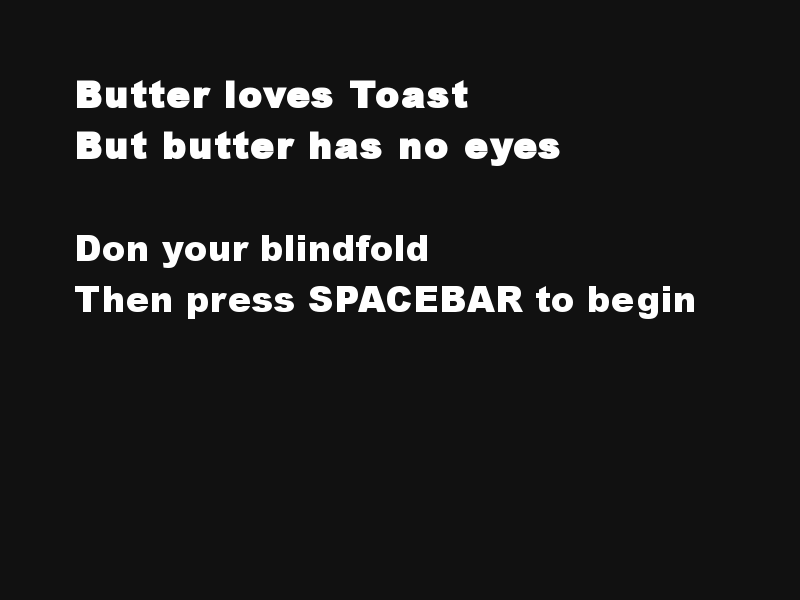
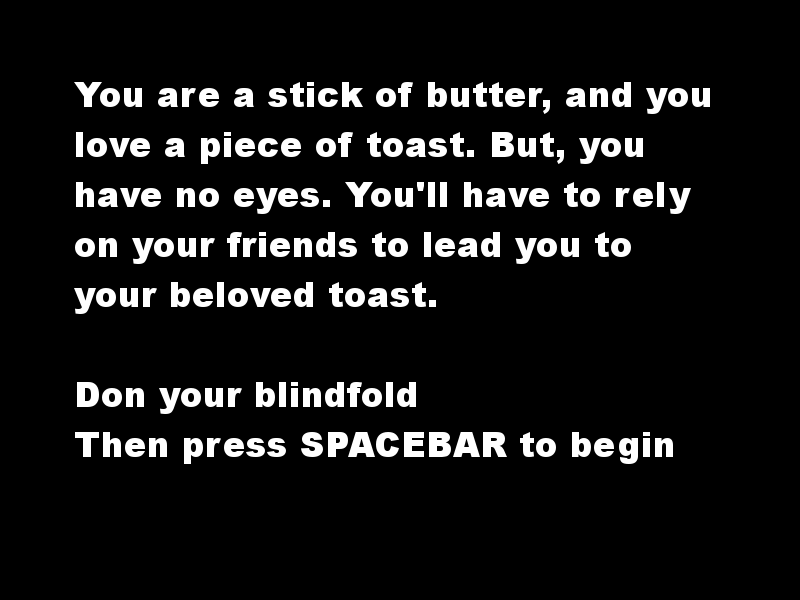
Added game description to webpage

diff --git a/digital-2.html b/digital-2.html
@@ -1,72 +1,104 @@
 <!DOCTYPE html>
 <html>
-<head>
+  <head>
     <meta charset="utf-8">
     <title>Digital #2</title>
     <script src="js/phaser.min.js"></script>
     <script src="js/love-game.js"></script>
     <script src="js/love-boot.js"></script>
     <script src="js/love-menu.js"></script>
-<style>
-body
-{
-    color: #777;
-    font-family: "Avenir", Verdana, sans-serif;
-}
-#readme
-{
-    margin-top: 10px;
-}
-</style>
+    <style>
+      body
+      {
+      color: #777;
+      font-family: "Avenir", Verdana, sans-serif;
+      }
+      #readme
+      {
+      margin-top: 10px;
+      }
+    </style>
 
-</head>
-<body>
-<div id="game"></div>
-<div id="readme">
-<h2>Love is Over</h2>
-<ul>
+  </head>
+  <body>
+    <div id="game"></div>
+    <div id="readme">
+      <h2>Love is Blind + Butter</h2>
+      <ul>
 
-<li><strong>High Concept:</strong>
-</li>
+	<li><strong>High Concept:</strong> One player seeks the piece
+	  of toast while blindfolded, the other players try to help
+	  them find it.
+	</li>
 
-<li><strong>Player Experience Goals:</strong>
-</li>
+	<li><strong>Player Experience Goals:</strong> Players will
+	  have fun and grow closer by pursuing a common goal while
+	  having unequal access to information.
+	</li>
 
-<li><strong>Genre:</strong>
+	<li><strong>Genre:</strong>
+	  A platformer with analog and digital components.
+	</li>
 
-</li>
+	<li><strong>Game play:</strong> This game is a platformer, so
+	  the player needs to jump onto platforms. If they miss, they
+	  will fall to their death. The cursor keys control left and
+	  right motion, the spacebar makes the player jump. The goal
+	  of the game is to touch the piece of toast. The player with
+	  access to the keyboard must wear a blindfold during play.
+	</li>
 
-<li><strong>Game play:</strong>
+	<li><strong>Prototype goal:</strong> My goal with this
+	  prototype is to explore cooperation between players who have
+	  unequal amounts of information. I also wanted to make a game
+	  that a 40 person class could participate in.
+	</li>
 
-</li>
+	<li><strong>Features:</strong>
+	  This game can be played by two to about one hundred players.
+	  It features authentic blindness mechanics.
+	</li>
 
-<li><strong>Prototype goal:</strong>
-</li>
+	<li><strong>Setting/Premise:</strong> You are a stick of
+	butter, and you love a piece of toast. But, you have no eyes.
+	You'll have to rely on your friends to lead you to your
+	beloved toast.
+	</li>
 
-<li><strong>Features:</strong>
-</li>
+	<li><strong>Story:</strong>
+	  Maybe a love triangle with a jar of jam in the sequel?
+	</li>
 
-<li><strong>Setting/Premise:</strong> </li>
+	<li><strong>Target Audience:</strong> My target audience is
+	  casual players who are looking to socialize with a group
+	  game. I am also specifically gearing this towards
+	  presentation in front of a class.
+	</li>
 
-<li><strong>Story:</strong>
-</li>
+	<li><strong>Play time:</strong>
+	  About three minutes.
+	</li>
 
-<li><strong>Target Audience:</strong>
-</li>
+	<li><strong>Strategies:</strong> Players who aren't wearing
+	  the blindfold will need to coordinate the information that
+	  they're giving so that the blindfolded player won't be
+	  overwhelmed. The blindfolded player will need to choose
+	  which voices they want to base their decisions on, probably
+	  using prior information about the other players.
+	</li>
 
-<li><strong>Play time:</strong>
-</li>
+	<li><strong>Prototype Assets:</strong> All of the visual
+	  assets are handmade. The sound assets were taken from the
+	  Phaser examples. The platforming code was based on a Phaser
+	  example.
+	</li>
 
-<li><strong>Strategies:</strong>
-</li>
+	<li><strong>Prototype Closest Other Game:</strong> The most
+	  similar game is the platforming Phaser example on
+	  Photonstorm's website.
+	</li>
 
-<li><strong>Prototype Assets:</strong>
-</li>
-
-<li><strong>Prototype Closest Other Game:</strong>
-</li>
-
-</ul>
-</div>
-</body>
+      </ul>
+    </div>
+  </body>
 </html>
